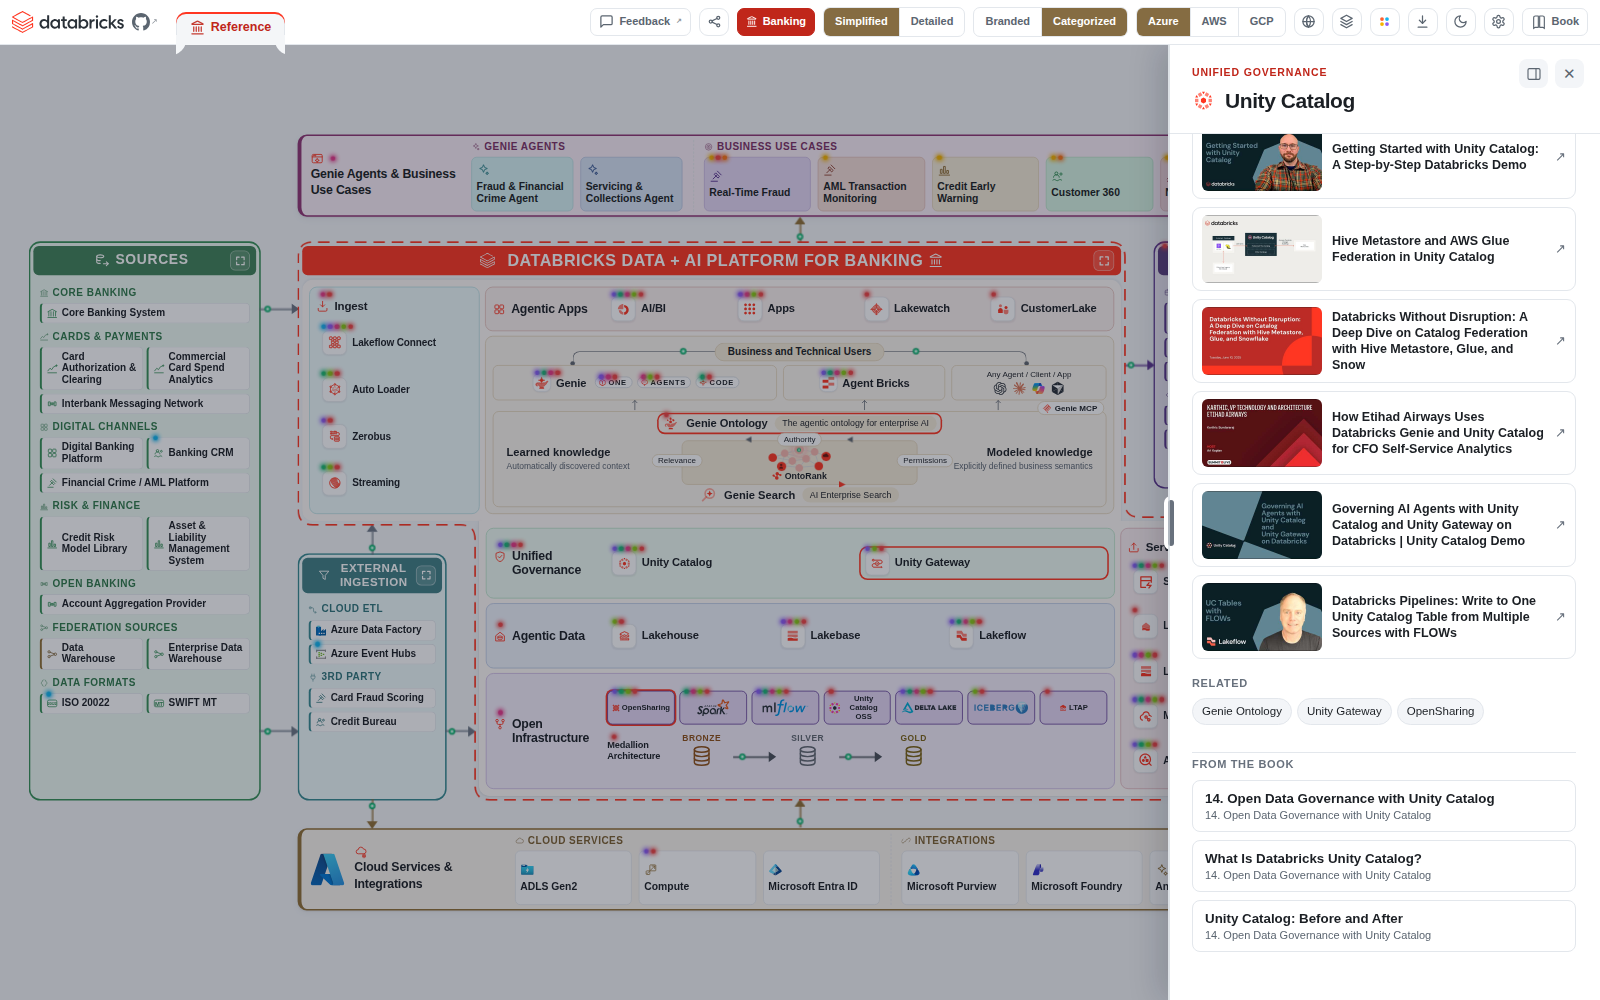
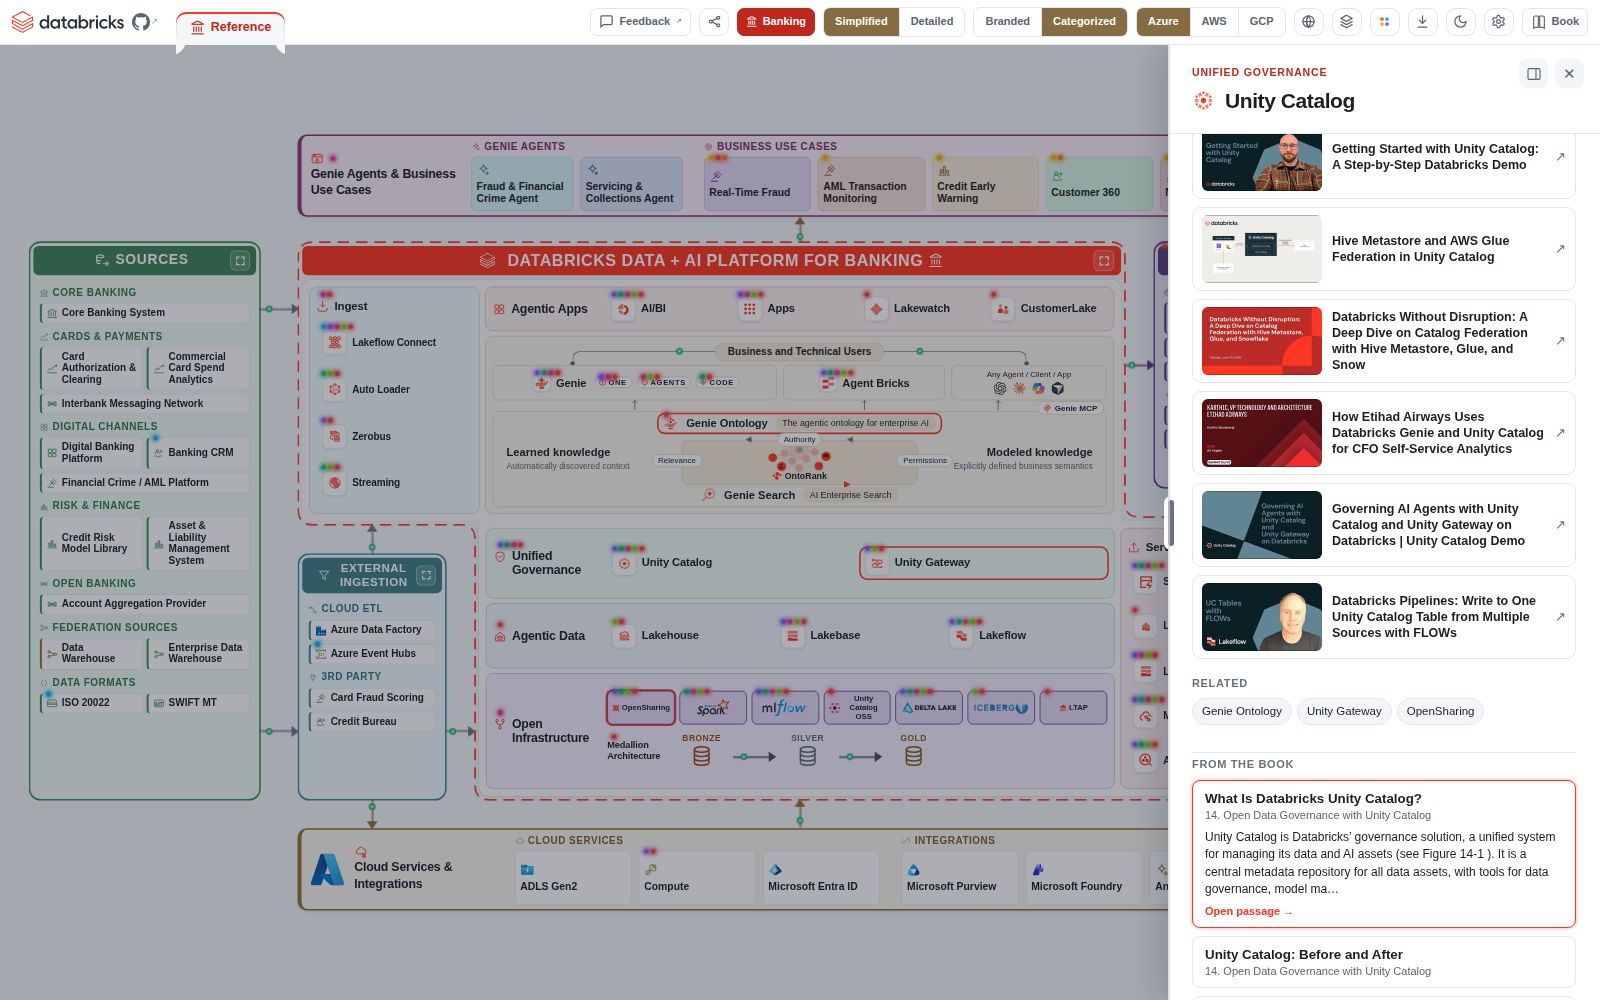
Show subsection previews for architecture mappings

Changed region(s): [[0.75, 0.775, 1.0, 1.0]]

diff --git a/integration/addon-host.css b/integration/addon-host.css
@@ -1,1 +1,1 @@
-.addon-slot{display:flex;align-items:center}.addon-launcher svg{width:16px;height:16px;fill:none;stroke:currentColor;stroke-width:1.7;stroke-linejoin:round}.addon-context-card{margin-top:22px;padding-top:4px;border-top:1px solid var(--line,#d8dee4)}.addon-context-link{display:block;width:100%;margin:8px 0;padding:10px 12px;border:1px solid var(--line,#d8dee4);border-radius:8px;background:var(--paper,#fff);color:inherit;text-align:left;cursor:pointer}.addon-context-link:hover{border-color:var(--brand,#ff3621);box-shadow:0 0 0 2px color-mix(in srgb,var(--brand,#ff3621) 14%,transparent)}.addon-context-link strong,.addon-context-link span{display:block}.addon-context-link span{margin-top:3px;color:var(--muted,#59636e);font-size:11px}.addon-shell{position:fixed;z-index:10020;top:0;right:0;bottom:0;width:min(760px,92vw);display:grid;grid-template-rows:52px 1fr;background:var(--paper,#fff);box-shadow:-16px 0 48px #0005}.addon-shell>header{display:flex;align-items:center;justify-content:space-between;padding:0 16px;border-bottom:1px solid var(--line,#d8dee4);background:var(--paper,#fff)}.addon-shell iframe{width:100%;height:100%;border:0;background:#fff}.addon-close{width:36px;height:36px;border:0;border-radius:7px;background:transparent;color:inherit;font-size:28px;line-height:1;cursor:pointer}.addon-close:hover{background:#8882}.addon-open{overflow:hidden}@media(max-width:700px){.addon-shell{width:100vw}.addon-launcher span{display:none}}@media print{.addon-slot,.addon-context-card,.addon-shell{display:none!important}}
+.addon-slot{display:flex;align-items:center}.addon-launcher svg{width:16px;height:16px;fill:none;stroke:currentColor;stroke-width:1.7;stroke-linejoin:round}.addon-context-card{margin-top:22px;padding-top:4px;border-top:1px solid var(--line,#d8dee4)}.addon-context-link{display:block;width:100%;margin:8px 0;padding:10px 12px;border:1px solid var(--line,#d8dee4);border-radius:8px;background:var(--paper,#fff);color:inherit;text-align:left;cursor:pointer}.addon-context-link:hover,.addon-context-link:focus{border-color:var(--brand,#ff3621);box-shadow:0 0 0 2px color-mix(in srgb,var(--brand,#ff3621) 14%,transparent)}.addon-context-link strong,.addon-context-link span,.addon-context-link em,.addon-context-link b{display:block}.addon-context-link span{margin-top:3px;color:var(--muted,#59636e);font-size:11px}.addon-context-link em{display:none;margin-top:8px;color:var(--ink,#1b1f24);font-size:12px;font-style:normal;line-height:1.45}.addon-context-link b{display:none;margin-top:7px;color:var(--brand,#ff3621);font-size:11px}.addon-context-link:hover em,.addon-context-link:focus em,.addon-context-link:hover b,.addon-context-link:focus b{display:block}.addon-shell{position:fixed;z-index:10020;top:0;right:0;bottom:0;width:min(760px,92vw);display:grid;grid-template-rows:52px 1fr;background:var(--paper,#fff);box-shadow:-16px 0 48px #0005}.addon-shell>header{display:flex;align-items:center;justify-content:space-between;padding:0 16px;border-bottom:1px solid var(--line,#d8dee4);background:var(--paper,#fff)}.addon-shell iframe{width:100%;height:100%;border:0;background:#fff}.addon-close{width:36px;height:36px;border:0;border-radius:7px;background:transparent;color:inherit;font-size:28px;line-height:1;cursor:pointer}.addon-close:hover{background:#8882}.addon-open{overflow:hidden}@media(max-width:700px){.addon-shell{width:100vw}.addon-launcher span{display:none}.addon-context-link em,.addon-context-link b{display:block}}@media print{.addon-slot,.addon-context-card,.addon-shell{display:none!important}}

diff --git a/integration/addon-host.js b/integration/addon-host.js
@@ -23,6 +23,7 @@
     if(!book||!context||!context.name)return [];
     const name=normalize(context.name);const phrases=[name,...(aliases[name]||[])].filter(Boolean);const queryWords=words(phrases.join(" ")+" "+context.section+" "+context.tagline);const matches=[];
     for(const chapter of book.chapters)for(const section of chapter.sections){
+      if(section.depth===1)continue;
       const chapterTitle=normalize(chapter.title),sectionTitle=normalize(section.title),text=normalize(section.text);let score=0;
       for(const phrase of phrases){if(sectionTitle.includes(phrase))score+=70;if(chapterTitle.includes(phrase))score+=50;if(text.includes(phrase))score+=12}
       for(const word of queryWords){if(sectionTitle.includes(word))score+=10;if(chapterTitle.includes(word))score+=7;if(text.includes(word))score+=1}
@@ -56,7 +57,7 @@
     body.dataset.bookContext=signature;currentContext=context;currentMatches=rank(context);body.querySelectorAll(".addon-context-card").forEach(node=>node.remove());
     if(!currentMatches.length){sendContext();return}
     const card=document.createElement("section");card.className="addon-context-card";const heading=document.createElement("h4");heading.textContent="From the book";card.append(heading);
-    for(const match of currentMatches){const button=document.createElement("button");button.type="button";button.className="addon-context-link";button.innerHTML="<strong></strong><span></span>";button.querySelector("strong").textContent=match.sectionTitle;button.querySelector("span").textContent=match.chapterTitle;button.addEventListener("click",()=>open(contextAddon,contextButton,match));card.append(button)}
+    for(const match of currentMatches){const button=document.createElement("button");button.type="button";button.className="addon-context-link";button.innerHTML="<strong></strong><span></span><em></em><b>Open passage →</b>";button.querySelector("strong").textContent=match.sectionTitle;button.querySelector("span").textContent=match.chapterTitle;button.querySelector("em").textContent=match.excerpt;button.addEventListener("click",()=>open(contextAddon,contextButton,match));card.append(button)}
     body.append(card);sendContext();
   }
 

diff --git a/integration/smoke_addon.js b/integration/smoke_addon.js
@@ -15,7 +15,9 @@ function check(name,value,detail){checks.push(!!value);console.log((value?'PASS 
     const unity=page.locator('.atom:visible').filter({hasText:'Unity Catalog'}).first();await unity.click();
     await page.locator('.addon-context-link').first().waitFor();
     const labels=await page.locator('.addon-context-link').allTextContents();
-    check('the selected architecture box gets mapped book passages',labels.length>0&&labels.join(' ').includes('Unity Catalog'),labels.join(' | '));
+    check('the selected architecture box gets mapped to subsections',labels.length>0&&labels.join(' ').includes('Unity Catalog')&&!labels[0].startsWith('14. Open Data Governance'),labels.join(' | '));
+    await page.locator('.addon-context-link').first().hover();
+    check('hover reveals a concise book preview',await page.locator('.addon-context-link em').first().isVisible());
     await page.locator('.addon-context-link').first().click();
     const frame=page.frameLocator('.addon-shell iframe');await frame.locator('.passage').waitFor();
     check('only the selected passage opens',await frame.locator('.chapters').count()===0&&await frame.locator('.passage').count()===1);

diff --git a/README.md b/README.md
@@ -4,7 +4,7 @@ Welcome to the repository for the **GenAI Book**. This repository contains the m
 
 ## Interactive Architecture Add-on
 
-This repository maps the book back to the [Databricks Reference Architecture](https://github.com/databricks-industry-solutions/databricks-reference-architecture). Selecting an architecture component adds a small **From the book** section to its detail panel, ranked to the most relevant chapters and passages. Opening a result displays only that passage—not the table of contents or the complete manuscript. The integration uses a same-origin add-on manifest and iframe, so book code remains isolated from the architecture renderer.
+This repository maps the book back to the [Databricks Reference Architecture](https://github.com/databricks-industry-solutions/databricks-reference-architecture). Selecting an architecture component adds a small **From the book** section to its detail panel, ranked to relevant subsection headings rather than whole chapters. Hovering or focusing a result reveals a concise preview in place; opening the passage is optional. The integration uses a same-origin add-on manifest and iframe, so book code remains isolated from the architecture renderer.
 
 - Run `npm install && npm test` to validate all chapters, images, and integration assembly.
 - Run `npm run build` to generate the standalone reader in `dist/book`.
